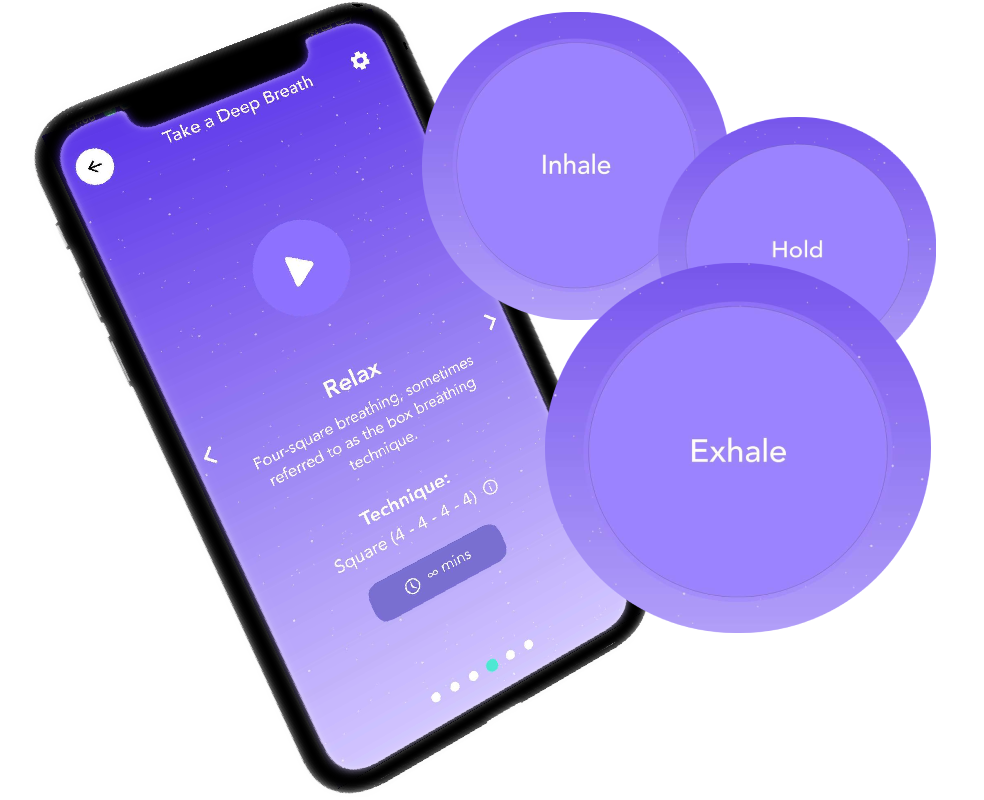
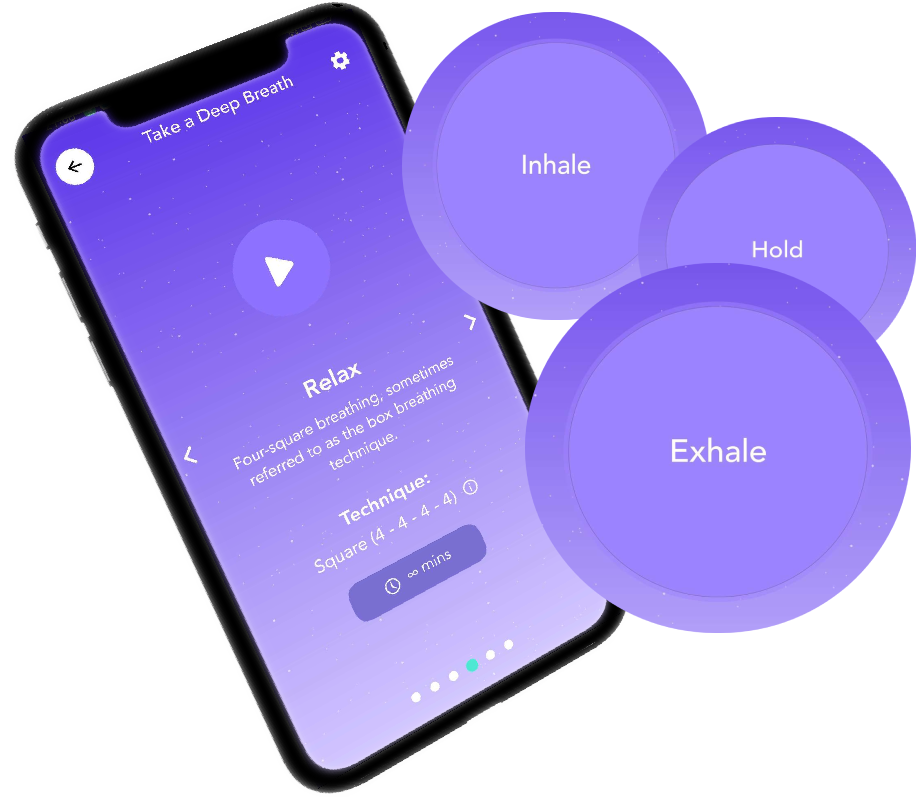
-- Add breathing exercise image in resilify features

diff --git a/src/components/Resilify/index.js b/src/components/Resilify/index.js
@@ -16,6 +16,7 @@ import meditationImg from "../../assets/images/resilify/resilify-meditation.png"
 import moreImg from "../../assets/images/resilify/resilify-more.png";
 import programImg from "../../assets/images/resilify/resilify-program.png";
 import dailyCheckinImg from "../../assets/images/resilify/resilify-daily-checkin.png";
+import breathingExercise from "../../assets/images/resilify/resilify-breathing-exercise.png";
 import {Link} from "gatsby";
 import ProgramAdapts from "../../assets/images/pexels-kaboompics-com-6335.jpg";
 import Slider from "./common/Slider";
@@ -90,11 +91,15 @@ const features = [
         description: "Reduce stress and manage your IBS symptoms with specifically designed exercise practices.",
         "image": programImg
     },
-
     {
         title: "Tailored CBT program",
         description: "Reduce stress and manage your IBS symptoms with specifically designed exercise practices.",
         "image": dailyCheckinImg
+    },
+    {
+        title: "Tailored CBT program",
+        description: "Reduce stress and manage your IBS symptoms with specifically designed exercise practices.",
+        "image": breathingExercise
     }
 ]
 
